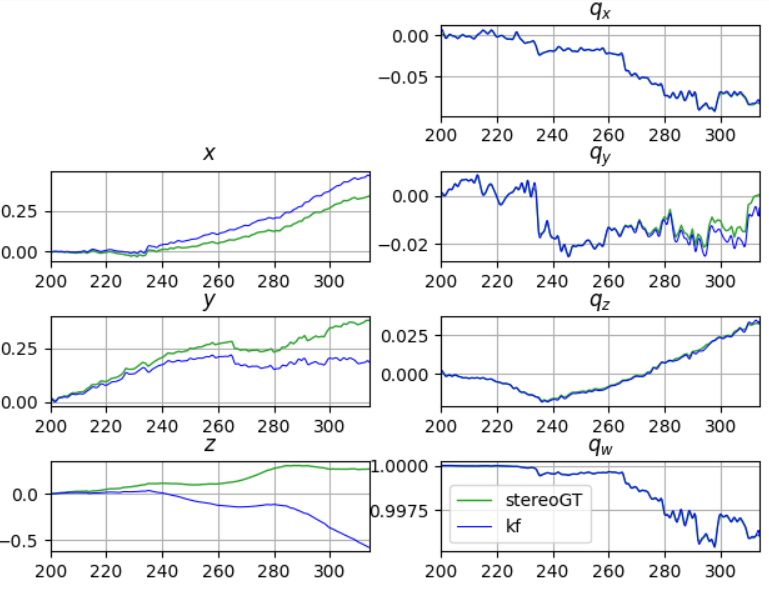
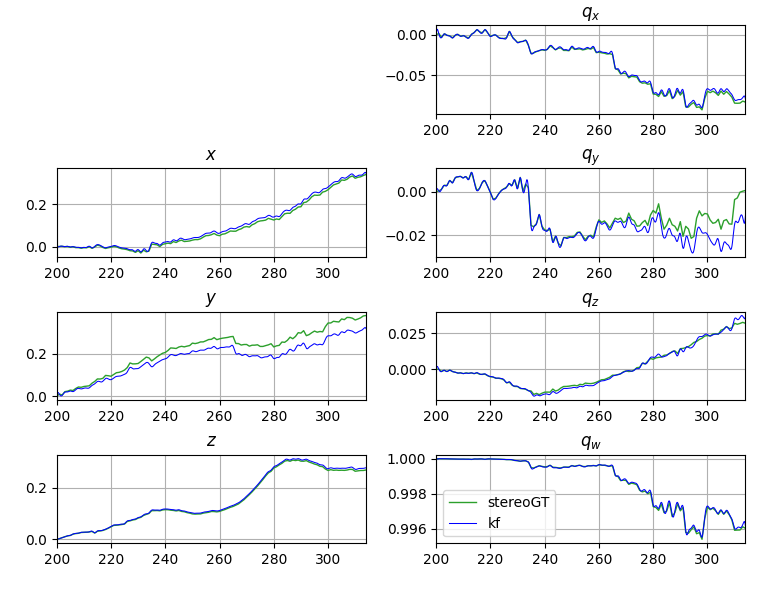
readme with propagation equations and new results after coordtrafo

Changed region(s): [[0.0, 0.0, 0.9987, 0.9746]]

diff --git a/readme.md b/readme.md
@@ -22,8 +22,14 @@ python3 main.py prop nonoise
 Using initial pose from monocular trajectory and propagating using IMU values
 (**not noisy**).
 
-Currently, propagation equations seem to check out for the quaternions!
-Pictured: after correcting the initial values for the velocity `v0`:
+Propagation equations for the states
+* ignoring gravity for now, as the fake IMU data does not take
+    gravity into account.
+* ignoring noise here according to the method suggested in the corresp. paper.
+    The noise terms are used in the covariance propagation equations.
+![](img/prop_eqns.PNG)
+
+Pictured: after correcting the fake IMU data to be in IMU coordinates. 
 
 ![](img/traj_only_prop.PNG)
 
